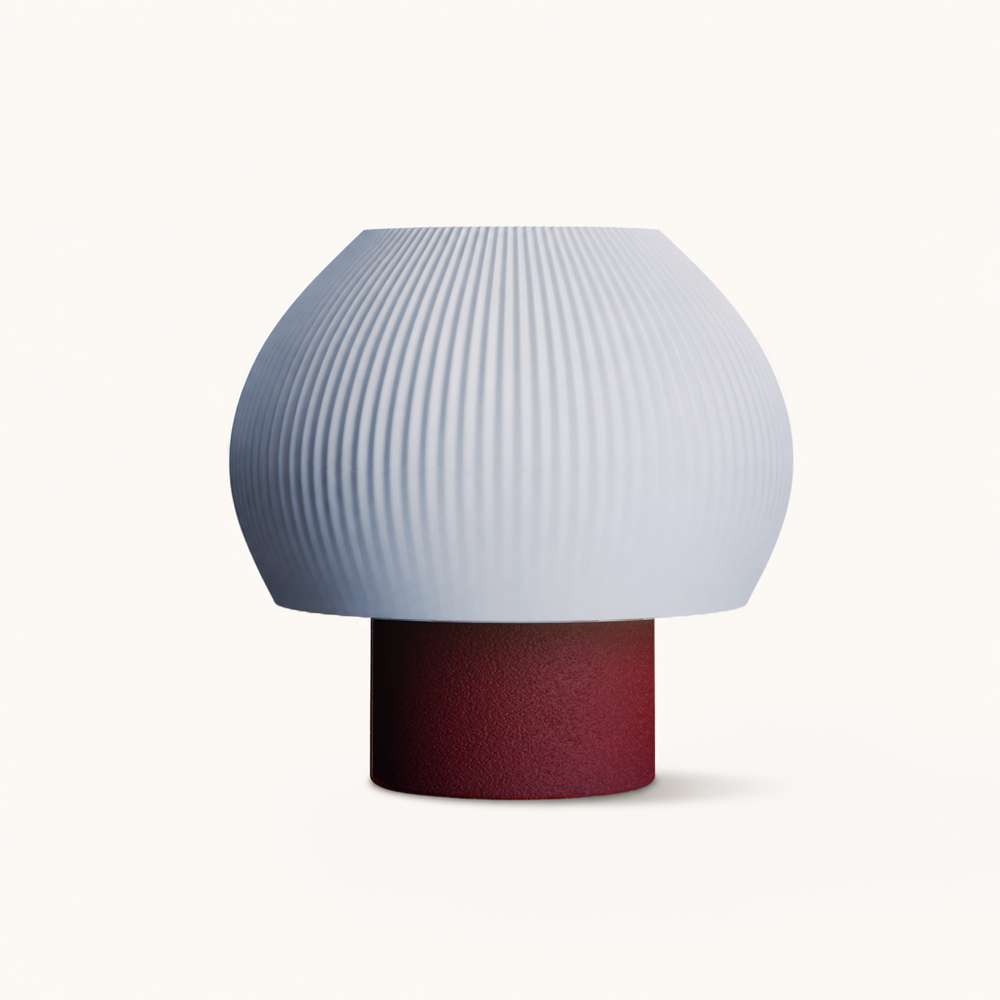
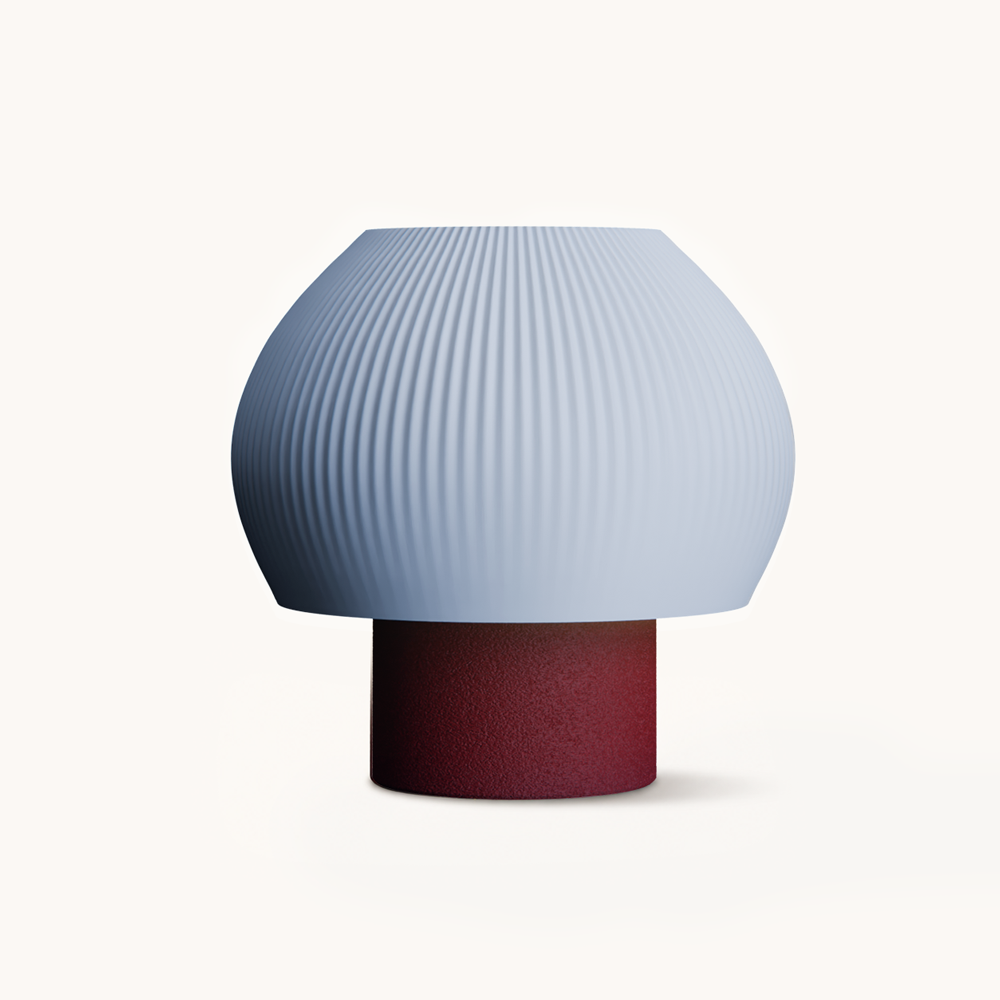
Updated few things

Changed region(s): [[0.217, 0.217, 0.558, 0.62]]

diff --git a/lib/data/products.ts b/lib/data/products.ts
@@ -105,7 +105,7 @@ export const PRODUCTS: Product[] = [
       {
         id: "1-fire-red",
         color: "Cherry Red",
-        colorHex: "#7a0400",
+        colorHex: "#942025",
         sku: "TFL-FR",
         price: 299,
         stock: 12,
@@ -377,7 +377,7 @@ export const PRODUCTS: Product[] = [
       {
         id: "4-pearl",
         color: "Cherry Red",
-        colorHex: "#7a0400",
+        colorHex: "#942025",
         sku: "PTL-FRD",
         price: 399,
         stock: 9,
@@ -385,24 +385,9 @@ export const PRODUCTS: Product[] = [
           lightOff: "/pearl-lamp/pearl-lamp-red-off.png",
           lightOn: "/pearl-lamp/pearl-lamp-red-on.png",
         },
-        collectionImage: "/pearl-lamp/pearl-lamp-red-off.png",
+        collectionImage: "/pearl-lamp/pearl-lamp-red-off-product-shadow.png",
         mainImage: "/pearl-lamp/pearl-lamp-red-off.png",
         images: ["/pearl-lamp/pearl-lamp-red-off.png", "/pearl-lamp/pearl-lamp-red-on.png"],
-      },
-      {
-        id: "4-orange",
-        color: "Burnt Orange",
-        colorHex: "#F7633A",
-        sku: "PTL-ORNG",
-        price: 399,
-        stock: 4,
-        featuredImages: {
-          lightOff: "/pearl-lamp/pearl-lamp-orange-off.png",
-          lightOn: "/pearl-lamp/pearl-lamp-orange-on.png",
-        },
-        collectionImage: "/pearl-lamp/pearl-lamp-orange-off.png",
-        mainImage: "/pearl-lamp/pearl-lamp-orange-off.png",
-        images: ["/pearl-lamp/pearl-lamp-orange-off.png", "/pearl-lamp/pearl-lamp-orange-on.png"],
       },
       {
         id: "4-blue",
@@ -415,7 +400,7 @@ export const PRODUCTS: Product[] = [
           lightOff: "/pearl-lamp/pearl-lamp-blue-off.png",
           lightOn: "/pearl-lamp/pearl-lamp-blue-on.png",
         },
-        collectionImage: "/pearl-lamp/pearl-lamp-blue-off.png",
+        collectionImage: "/pearl-lamp/pearl-lamp-blue-off-shadow.png",
         mainImage: "/pearl-lamp/pearl-lamp-blue-off.png",
         images: ["/pearl-lamp/pearl-lamp-blue-off.png", "/pearl-lamp/pearl-lamp-blue-on.png"],
       },
@@ -430,7 +415,7 @@ export const PRODUCTS: Product[] = [
           lightOff: "/pearl-lamp/pearl-lamp-white-off.png",
           lightOn: "/pearl-lamp/pearl-lamp-white-on.png",
         },
-        collectionImage: "/pearl-lamp/pearl-lamp-white-off.png",
+        collectionImage: "/pearl-lamp/pearl-lamp-white-off-product-shadow.png",
         mainImage: "/pearl-lamp/pearl-lamp-white-off.png",
         images: ["/pearl-lamp/pearl-lamp-white-off.png", "/pearl-lamp/pearl-lamp-white-on.png"],
       },

diff --git a/components/cart/CartDrawer.tsx b/components/cart/CartDrawer.tsx
@@ -33,19 +33,19 @@ export default function CartDrawer() {
 
   // One row per add-on: checked if some cart item already has it, otherwise an
   // upsell targeting the first item whose product offers it.
-  const addOnRows = useMemo(
-    () =>
-      ADD_ONS.flatMap((addOn) => {
-        const attachedTo = items.find((item) => (item.addOns ?? []).some((a) => a.id === addOn.id));
-        const target =
-          attachedTo ??
-          items.find((item) =>
-            PRODUCTS.find((p) => p.id === item.productId)?.addOns?.some((a) => a.id === addOn.id)
-          );
-        return target ? [{ addOn, item: target, attached: Boolean(attachedTo) }] : [];
-      }),
-    [items]
-  );
+  // const addOnRows = useMemo(
+  //   () =>
+  //     ADD_ONS.flatMap((addOn) => {
+  //       const attachedTo = items.find((item) => (item.addOns ?? []).some((a) => a.id === addOn.id));
+  //       const target =
+  //         attachedTo ??
+  //         items.find((item) =>
+  //           PRODUCTS.find((p) => p.id === item.productId)?.addOns?.some((a) => a.id === addOn.id)
+  //         );
+  //       return target ? [{ addOn, item: target, attached: Boolean(attachedTo) }] : [];
+  //     }),
+  //   [items]
+  // );
 
   // Lock body scroll and close on Escape while the drawer is open.
   useEffect(() => {
@@ -335,7 +335,7 @@ export default function CartDrawer() {
                   })}
 
                   {/* Add-on upsells */}
-                  {addOnRows.map(({ addOn, item, attached }) => (
+                  {/* {addOnRows.map(({ addOn, item, attached }) => (
                     <label
                       key={addOn.id}
                       className="my-4 flex cursor-pointer items-center gap-3.5 rounded-[14px] p-4"
@@ -374,7 +374,7 @@ export default function CartDrawer() {
                         className="flex-shrink-0 font-extrabold"
                       />
                     </label>
-                  ))}
+                  ))} */}
                 </div>
 
                 {/* Footer */}
@@ -409,7 +409,7 @@ export default function CartDrawer() {
                       amount={subtotal()}
                       size="sm"
                       variant="white"
-                      className="font-bold"
+                      className="font-bold text-[16px]"
                     />
                   </Link>
                   <Link

diff --git a/lib/cart/service.ts b/lib/cart/service.ts
@@ -1,5 +1,4 @@
 import { randomUUID } from "node:crypto";
-import { getVariantMainImage } from "@/lib/data/products";
 import { createServiceClient } from "@/lib/supabase/server";
 import { clearCartId, readCartId, setCartId } from "./cookie";
 import { findAddOn, findVariant, MAX_CART_QUANTITY, toMinorUnits } from "./catalog";
@@ -72,7 +71,7 @@ async function cartDto(cart: CartRow): Promise<CartDto> {
       return addOn ? [{ id: addOn.id, name: addOn.name, imageUrl: addOn.image, unitPrice: toMinorUnits(addOn.price), quantity: Math.min(saved.quantity, row.quantity) }] : [];
     });
     const lineTotal = unitPrice * row.quantity + addOns.reduce((sum, item) => sum + item.unitPrice * item.quantity, 0);
-    return { itemId: row.id, productId: row.product_id, variantId: row.variant_id, slug: catalog?.product.slug ?? "", name: catalog?.product.name ?? "Unavailable product", variantName: catalog?.variant.color ?? "", imageUrl: catalog ? getVariantMainImage(catalog.variant) : null, unitPrice, quantity: row.quantity, lineTotal, available, maxQuantity: catalog ? Math.min(catalog.variant.stock, MAX_CART_QUANTITY) : 0, addOns };
+    return { itemId: row.id, productId: row.product_id, variantId: row.variant_id, slug: catalog?.product.slug ?? "", name: catalog?.product.name ?? "Unavailable product", variantName: catalog?.variant.color ?? "", imageUrl: catalog?.variant.collectionImage ?? null, unitPrice, quantity: row.quantity, lineTotal, available, maxQuantity: catalog ? Math.min(catalog.variant.stock, MAX_CART_QUANTITY) : 0, addOns };
   });
   return { id: cart.id, currency: "AED", items, itemCount: items.reduce((sum, item) => sum + item.quantity, 0), subtotal: items.reduce((sum, item) => sum + item.lineTotal, 0), warnings, updatedAt: cart.updated_at };
 }

diff --git a/components/ui/DirhamPrice.tsx b/components/ui/DirhamPrice.tsx
@@ -34,7 +34,7 @@ export default function DirhamPrice({
       />
       <span>{amount.toFixed(2)}</span>
       {compareAmount && (
-        <span className="line-through ml-1 text-[var(--color-text-disabled)] text-sm">
+        <span className="line-through ml-1 text-[var(--color-text-disabled)] text-[16px]">
           {compareAmount.toFixed(2)}
         </span>
       )}
